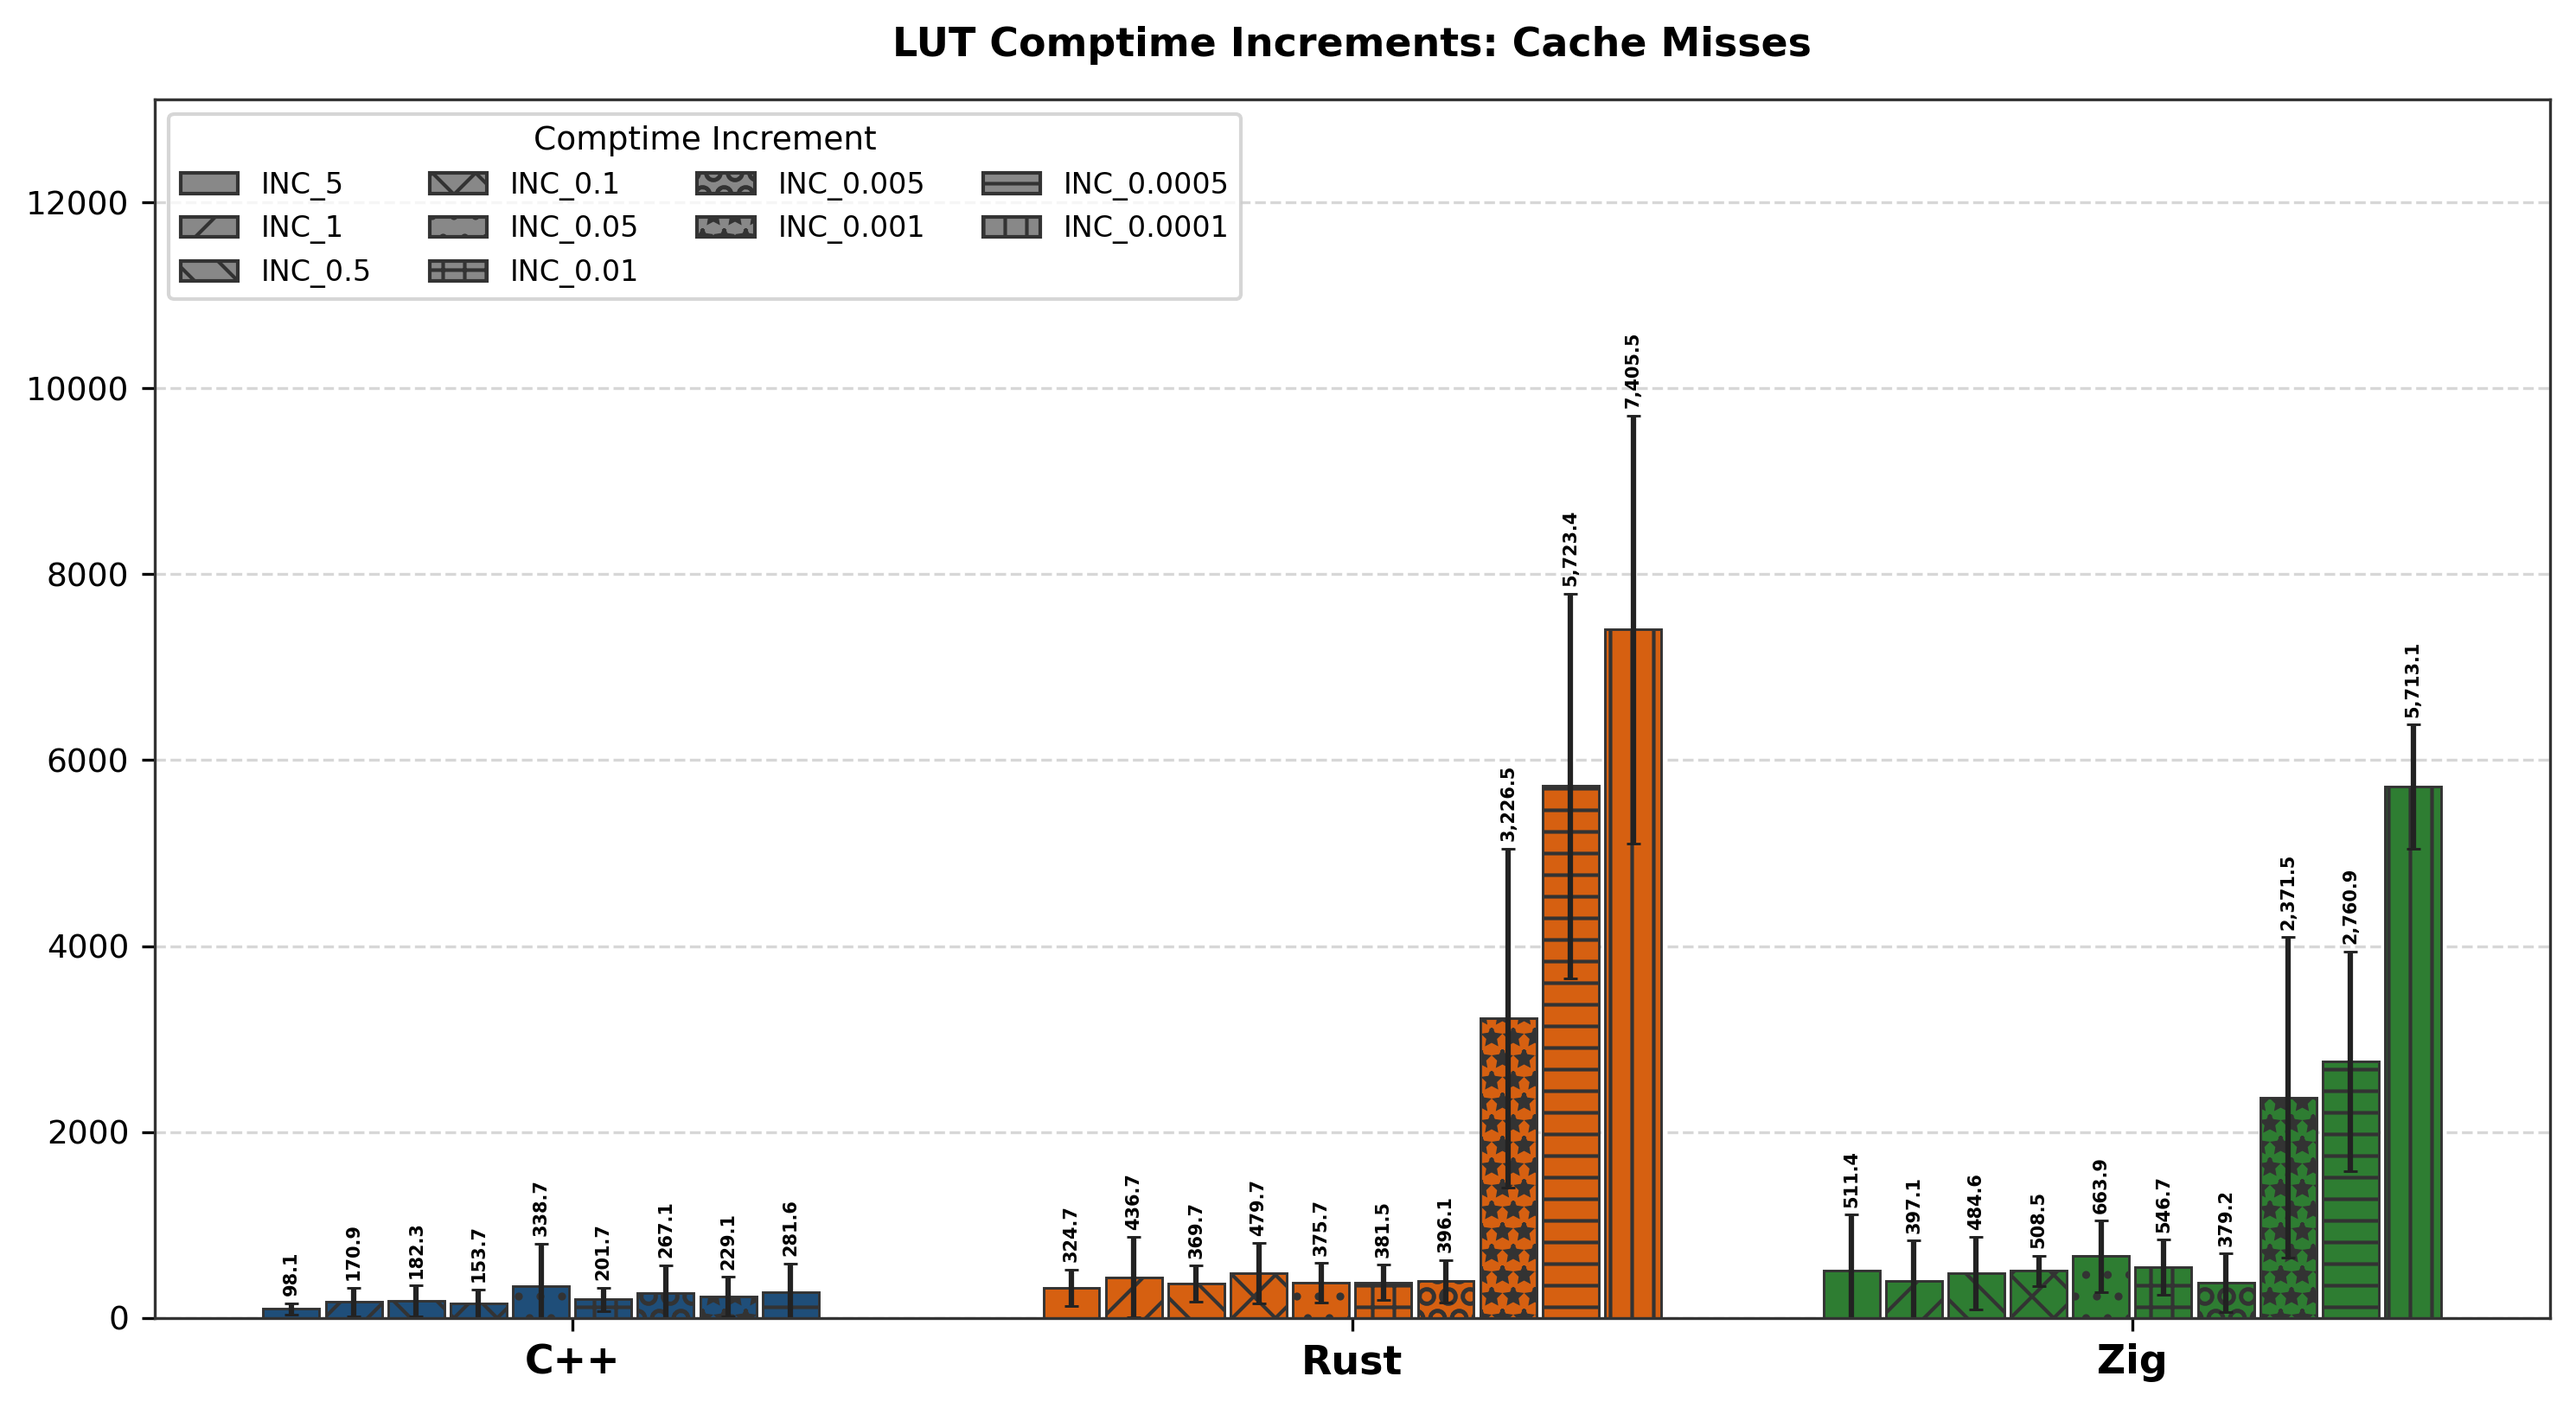
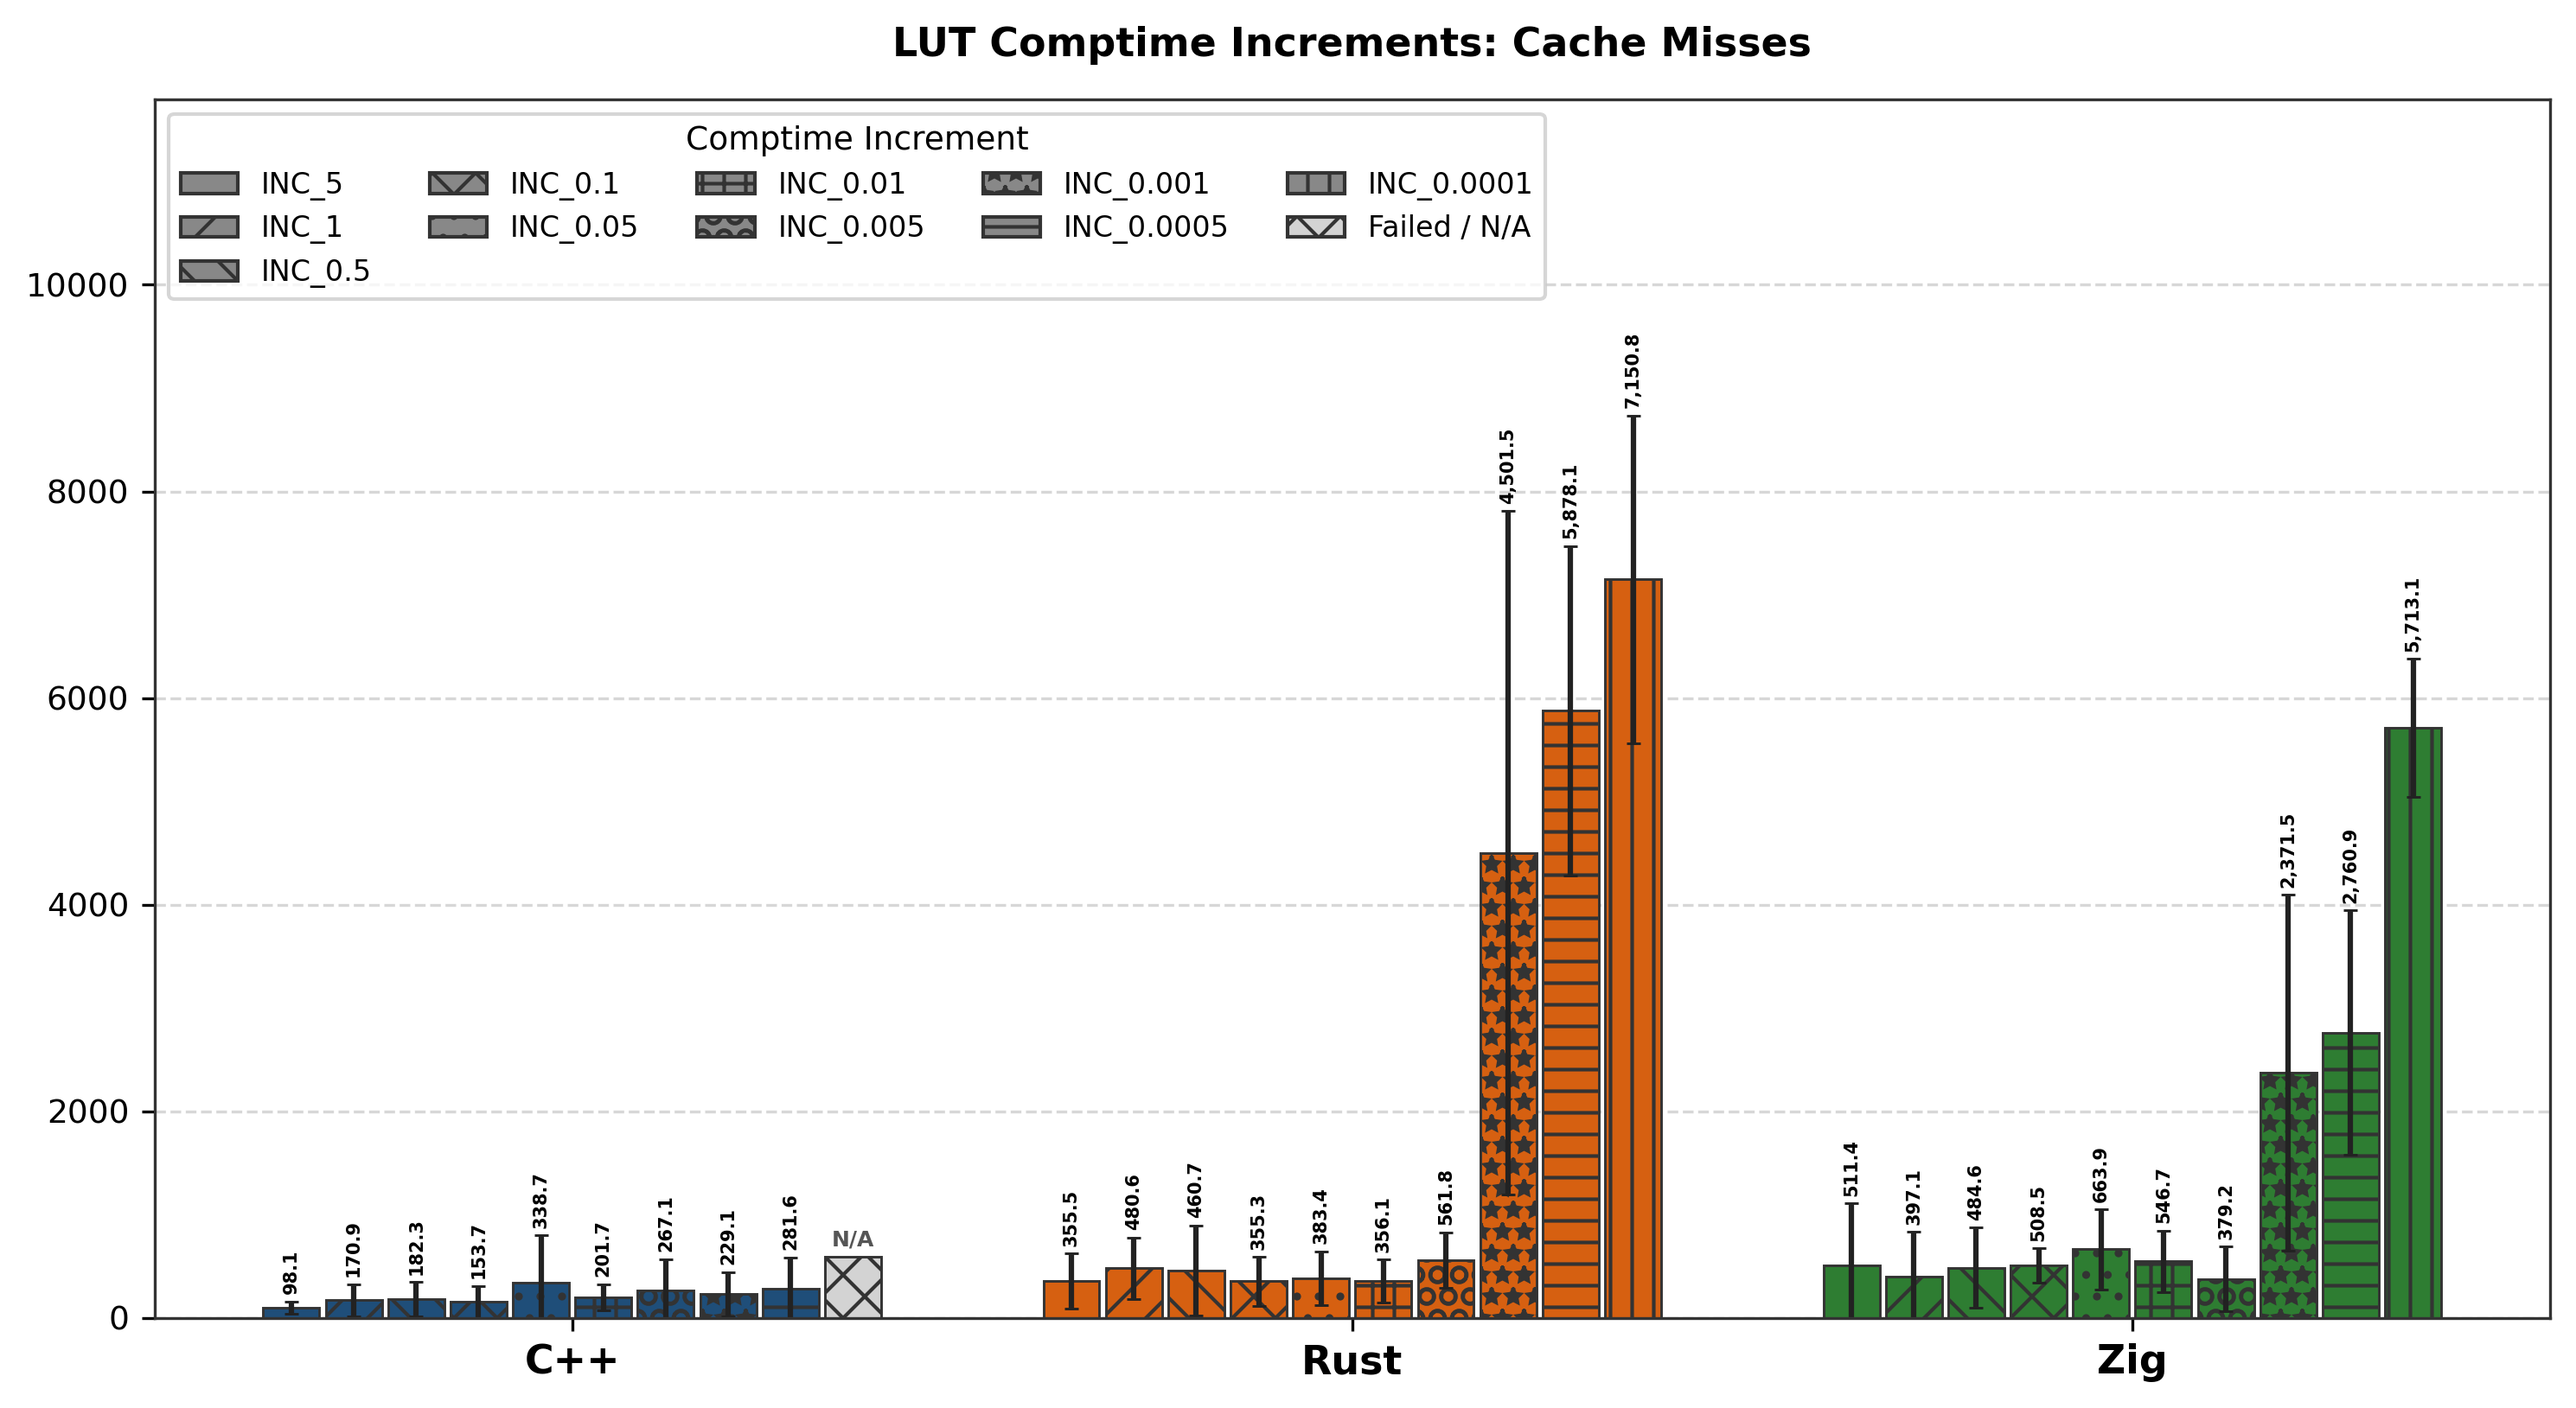
regen lut plots

diff --git a/plot/plot_lut.py b/plot/plot_lut.py
@@ -177,57 +177,98 @@ def generate_lut_comptime_plot(df: pd.DataFrame, metric: str, metric_title: str)
     all_heights = []
     increment_legend_elements = []
 
+    # First pass: calculate y-axis scale based on valid data points
+    valid_max = 0
+    for lang in LANG_ORDER:
+        for setting in inc_settings:
+            row = ct_df[(ct_df["lang"] == lang) & (ct_df["setting"] == setting)]
+            if not row.empty:
+                m = row[mean_col].values[0]
+                s = row[std_col].values[0]
+                if m > 0:
+                    valid_max = max(valid_max, m + s)
+
+    y_upper_limit = (valid_max * 1.35) if valid_max > 0 else 1.0
+    failed_bar_height = y_upper_limit * 0.05  # Height for indicator bars
+
     for idx, setting in enumerate(inc_settings):
         hatch = HATCH_PATTERNS[idx % len(HATCH_PATTERNS)]
         offset = x_indices - (total_group_width / 2) + (idx + 0.5) * bar_width
 
-        means, stds, colors = [], [], []
+        means, stds, colors, hatches, is_failed = [], [], [], [], []
 
         for lang in LANG_ORDER:
             row = ct_df[(ct_df["lang"] == lang) & (ct_df["setting"] == setting)]
-            if not row.empty:
+            
+            # Check if row is missing or contains 0/empty values (failed compilation)
+            if row.empty or row[mean_col].values[0] == 0 or row[mean_col].values[0] == "":
+                means.append(failed_bar_height)
+                stds.append(0)
+                colors.append("#D3D3D3")  # Light Grey
+                hatches.append("xx")      # 'x' pattern for failed compilation
+                is_failed.append(True)
+            else:
                 m = row[mean_col].values[0]
                 s = row[std_col].values[0]
                 means.append(m)
                 stds.append(s)
                 colors.append(LANG_COLORS[lang])
+                hatches.append(hatch)
+                is_failed.append(False)
                 all_heights.append(m + s)
-            else:
-                means.append(0)
-                stds.append(0)
-                colors.append("#CCCCCC")
 
-        bars = ax.bar(
-            offset,
-            means,
-            width=bar_width * 0.9,
-            yerr=stds,
-            capsize=2,
-            color=colors,
-            edgecolor="#333333",
-            linewidth=0.7,
-            hatch=hatch,
-            error_kw={"ecolor": "#222222", "capthick": 0.7},
-        )
-
-        for bar, mean_val, std_val in zip(bars, means, stds):
-            if mean_val == 0:
-                continue
-            ax.annotate(
-                f"{mean_val:,.1f}",
-                xy=(bar.get_x() + bar.get_width() / 2, bar.get_height() + std_val),
-                xytext=(0, 2),
-                textcoords="offset points",
-                ha="center",
-                va="bottom",
-                fontsize=5.0,
-                fontweight="bold",
-                rotation=90,
+        # Plot individual bars to accommodate per-bar hatch patterns (e.g. 'xx' for failures)
+        for i, (pos, m, s, col, h, failed) in enumerate(
+            zip(offset, means, stds, colors, hatches, is_failed)
+        ):
+            bar = ax.bar(
+                pos,
+                m,
+                width=bar_width * 0.9,
+                yerr=s if not failed else None,
+                capsize=2 if not failed else 0,
+                color=col,
+                edgecolor="#333333",
+                linewidth=0.7,
+                hatch=h,
+                error_kw={"ecolor": "#222222", "capthick": 0.7},
             )
+
+            if failed:
+                # Annotate failed bars with "N/A" or "Failed" above the grey bar
+                ax.annotate(
+                    "N/A",
+                    xy=(pos, m),
+                    xytext=(0, 2),
+                    textcoords="offset points",
+                    ha="center",
+                    va="bottom",
+                    fontsize=6.0,
+                    fontweight="bold",
+                    color="#555555",
+                )
+            else:
+                # Normal numeric value annotation
+                ax.annotate(
+                    f"{m:,.1f}",
+                    xy=(pos, m + s),
+                    xytext=(0, 2),
+                    textcoords="offset points",
+                    ha="center",
+                    va="bottom",
+                    fontsize=5.0,
+                    fontweight="bold",
+                    rotation=90,
+                )
 
         increment_legend_elements.append(
             Patch(facecolor="#888888", edgecolor="#333333", hatch=hatch, label=setting)
         )
+
+    # Add a custom legend item for failed compilations if any exist
+    increment_legend_elements.append(
+        Patch(facecolor="#D3D3D3", edgecolor="#333333", hatch="xx", label="Failed / N/A")
+    )
 
     ax.set_xticks(x_indices)
     ax.set_xticklabels([LANG_LABELS[l] for l in LANG_ORDER], fontweight="bold", fontsize=11)
@@ -235,8 +276,7 @@ def generate_lut_comptime_plot(df: pd.DataFrame, metric: str, metric_title: str)
     ax.yaxis.grid(True, linestyle="--", alpha=0.5, zorder=0)
     ax.set_axisbelow(True)
 
-    if all_heights:
-        ax.set_ylim(0, max(all_heights) * 1.35)
+    ax.set_ylim(0, y_upper_limit)
 
     ax.legend(
         handles=increment_legend_elements,
@@ -244,7 +284,7 @@ def generate_lut_comptime_plot(df: pd.DataFrame, metric: str, metric_title: str)
         loc="upper left",
         frameon=True,
         fontsize=8,
-        ncol=min(num_increments, 4),
+        ncol=min(len(increment_legend_elements), 5),
     )
 
     plt.tight_layout()
@@ -257,7 +297,6 @@ def generate_lut_comptime_plot(df: pd.DataFrame, metric: str, metric_title: str)
     if SHOW_PLOTS:
         plt.show()
         plt.pause(PAUSE_DURATION)
-
 
 # -------------------------------------------------------------------------
 # Main Execution Loop
